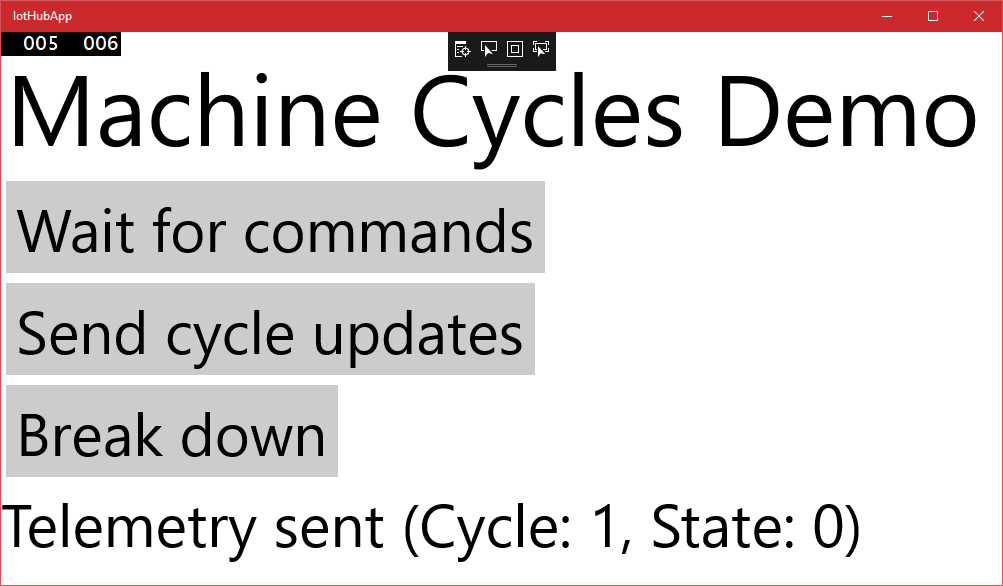
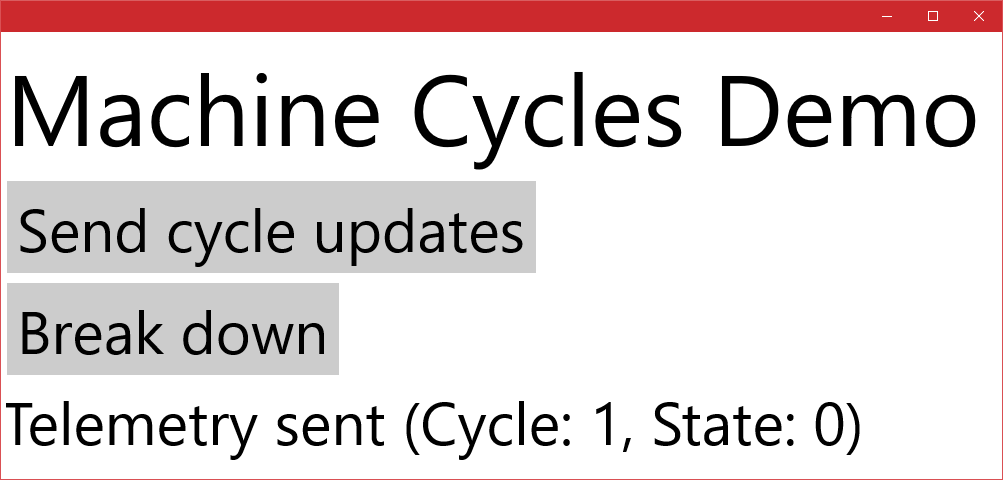
Removed downlink from UWP

diff --git a/UwpToIotHub.md b/UwpToIotHub.md
@@ -1,4 +1,4 @@
-## Connecting to an IoT Hub using a UWP app
+## Connecting to an IoT Hub using a UWP app device simulation
 
 ![alt tag](img/arch/Picture00-UWP-overview.png)
 
@@ -144,7 +144,7 @@ The AzureIoTHub can be integrated in the logic of our App. Let's do that.
 We will use the connection later on. But first let's check out the 'AzureIoTHub.cs' file because it needs some rework.
 
 1. `Open` the file named 'AzureIoTHub.cs'
-2. The file contains a class named which has two methods: 'SendDeviceToCloudMessageAsync' and 'ReceiveCloudToDeviceMessageAsync'.
+2. The file contains a class named which has two methods: 'SendDeviceToCloudMessageAsync' and 'ReceiveCloudToDeviceMessageAsync'. *Note: receiving Cloud to Device messages will be discussed later on*
 3. The method to send data is not that intelligent. It only sends a text message. Add the following code just below it
 
     ```csharp
@@ -166,32 +166,6 @@ We will use the connection later on. But first let's check out the 'AzureIoTHub.
     ```
 
 4. We have defined the Telemetry class which will hold the number of cycles. And the current error code of the device can be passed to the cloud. The telemetry is converted to JSON
-5. The method to receive messages from the cloud to this devices needs some rework also. It should be waiting for bytes
-
-    ```csharp
-    public static async Task<byte[]> ReceiveCloudToDeviceBytes()
-    {
-        var deviceClient = DeviceClient.
-              CreateFromConnectionString(deviceConnectionString, TransportType.Amqp);
-
-        while (true)
-        {
-            var receivedMessage = await deviceClient.ReceiveAsync();
-
-            if (receivedMessage != null)
-            {
-                var bytes = receivedMessage.GetBytes();
-
-                await deviceClient.CompleteAsync(receivedMessage);
-
-                return bytes;
-            }
-
-            await Task.Delay(TimeSpan.FromSeconds(1));
-        }
-    }
-    ```
-
 6. `Open` the 'XAML' file named 'MainPage.xaml'. The empty page will be shown both in a visual editor and a textual XAML editor
 7. The page contains one component, a grid. But that grid is merely a container for other visual components
 8. In the XAML editor, within the grid, `add`
@@ -199,10 +173,9 @@ We will use the connection later on. But first let's check out the 'AzureIoTHub.
     ```xml
     <StackPanel>
         <TextBlock Name="txbTitle" Text="Machine Cycles Demo" Margin="5"  FontSize="100" IsColorFontEnabled="True" />
-        <Button Name="BtnReceive" Content="Wait for commands" Margin="5" FontSize="60" Click="btnReceive_Click" />
         <Button Name="BtnSend" Content="Send cycle updates" Margin="5" FontSize="60" Click="btnSend_Click" />
         <Button Name="BtnBreak" Content="Break down" Margin="5" FontSize="60" Click="BtnBreak_OnClick" />
-        <TextBlock Name="TbReceived" Text="---" FontSize="60" />
+        <TextBlock Name="TbMessage" Text="---" FontSize="60" />
     </StackPanel>
     ```
 
@@ -242,38 +215,12 @@ We will use the connection later on. But first let's check out the 'AzureIoTHub.
         }
     }
 
-    private async void btnReceive_Click(object sender, RoutedEventArgs e)
-    {
-        BtnReceive.IsEnabled = false;
-        while (true)
-        {
-            try
-            {
-                var bytes = await AzureIoTHub.ReceiveCloudToDeviceBytes();
-
-                if (bytes != null && bytes.Length > 0 && bytes[0] >= 42)
-                {
-                    await ShowMessage($"Command {Convert.ToInt32(bytes[0])} (Started running again at {DateTime.Now:hh:mm:ss})");
-                    _errorCode = 0;
-                    BtnBreak.IsEnabled = true;
-
-                    txbTitle.Foreground = new SolidColorBrush(Colors.DarkOliveGreen);
-                }
-            }
-            catch (Exception ex)
-            {
-                BtnReceive.IsEnabled = true;
-                await ShowMessage(ex.Message);
-            }
-        }
-    }
-
     private async Task ShowMessage(string text)
     {
         await Dispatcher.RunAsync(
                 CoreDispatcherPriority.Normal, () =>
                 {
-                    TbReceived.Text = text;
+                    TbMessage.Text = text;
                 });
     }
 

diff --git a/README.md b/README.md
@@ -31,7 +31,7 @@ The other parts are optional/extra if you have time left.
 
 1. Connecting a device to the Azure IoT Platform
     1. [Getting started with the hardware and The Things Network](TheThingsNetwork.md)
-    2. [Connecting to an IoT Hub using a UWP app](UwpToIotHub.md)
+    2. [Connecting to an IoT Hub using a UWP app device simulation](UwpToIotHub.md)
 2. [Handling The Things Network telemetry in Azure](Azure.md)
 3. [Passing commands back to a device](Commands.md)
 4. [Pushing telemetry messages to Microsoft Flow and beyond](Flow.md)
